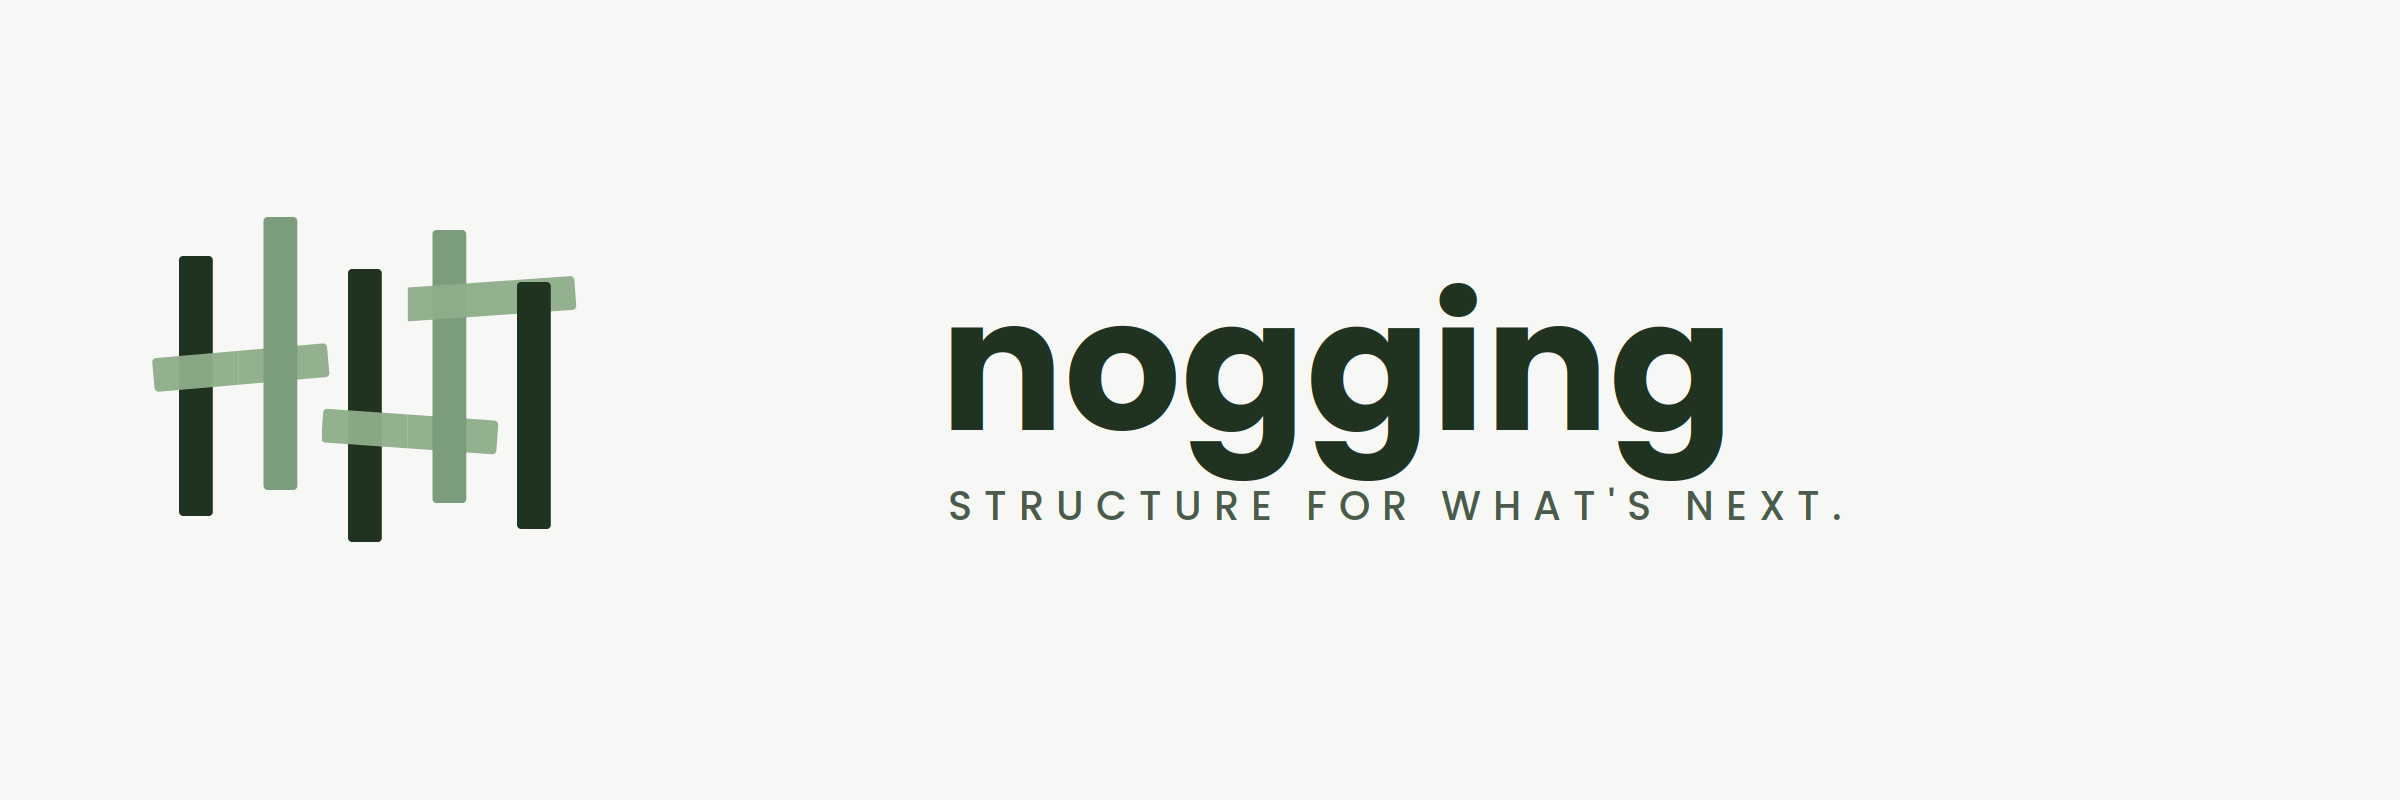
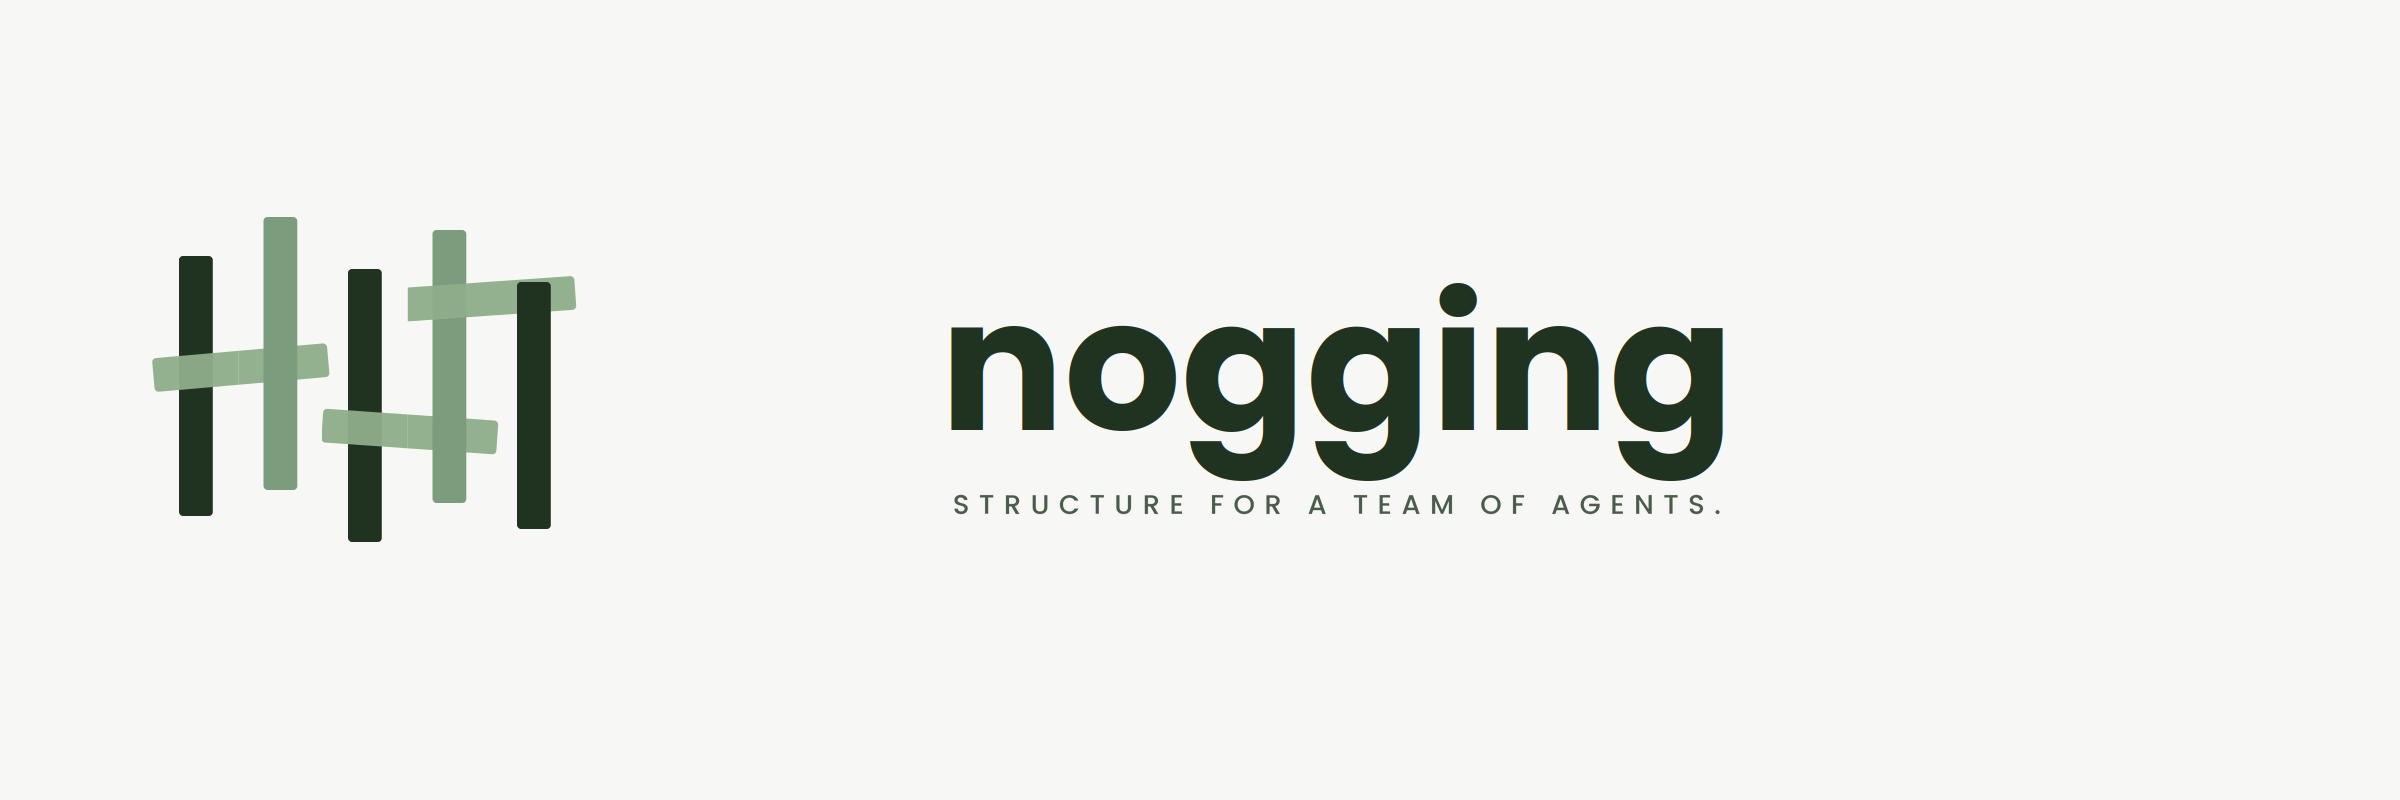
chore(brand): finish tagline rebrand in assets and wording [SPEC-ah2c]
Take the owner-made banner and social card from docs/brand-tagline (#270),
add the 1080x1080 square social card, and redraw the logo tagline as
"STRUCTURE FOR / A TEAM OF AGENTS." (Poppins Medium, #4A5B4C, wordmark and
mark pixel-unchanged).

Align package.json description and keywords with the GitHub description,
and drop stale pre-public statements from project-identity, installation and
compatibility docs (historical decisions stay marked historical).

Claude-Session: https://claude.ai/code/session_01VnwbXyWrScQbcWBm8gQrTF

Changed region(s): [[0.375, 0.5938, 0.75, 0.6562]]

diff --git a/docs/project-identity.md b/docs/project-identity.md
@@ -15,13 +15,22 @@ Nogging release.
 - Installer entry point: `npx github:JoMe92/nogging#<tag>`
 - Generated service prefix: `nogg-`
 
-### GitHub metadata for the owner
+### GitHub metadata
 
-- Description: `Nogging — the structural layer for agentic software development.`
-- Topics: `agentic-development`, `ai-agents`, `beads`, `developer-tools`,
-  `openspec`
-- Visibility: remain private until the separate release-readiness and human
-  acceptance process authorizes a change
+- Description: `Structure for a team of agents: role boundaries, planning and
+  Git-evidenced execution for Claude Code, Codex, Pi and Antigravity, built on
+  OpenSpec and Beads.`
+- Topics (20): `agentic-coding`, `agentic-development`, `ai-agents`,
+  `ai-coding`, `beads`, `claude-code`, `cli`, `codex`, `coding-agents`,
+  `developer-tools`, `devtools`, `git`, `llm`, `multi-agent`, `openai-codex`,
+  `openspec`, `orchestration`, `software-engineering`,
+  `spec-driven-development`, `workflow-automation`
+- Visibility: public since v3.0.0
+
+_Historical:_ before v3.0.0 the repository was private, carried an earlier
+one-line description, and had five topics
+(`agentic-development`, `ai-agents`, `beads`, `developer-tools`, `openspec`).
+That wording and the private-until-release-readiness decision are superseded.
 
 Nogging is **structure for a team of agents**: it turns autonomous coding
 agents into a disciplined team — a Planning Agent, a Lead Agent, and

diff --git a/docs/compatibility.md b/docs/compatibility.md
@@ -1,6 +1,6 @@
 # Compatibility policy and matrix
 
-This page defines the supported environment for Nogging 2.0.x. “Supported”
+This page defines the supported environment for Nogging 3.1.x. “Supported”
 means the project claims the combination and supplies CI or recorded manual
 evidence. “Optional” means the core local workflow works without the component.
 Versions newer than the validated baseline are expected to work within the same
@@ -34,7 +34,7 @@ a hard gate, because they are not stable APIs.
 | Ubuntu Linux, x86_64 | Supported | GitHub Actions runs functional, install, validation, and acceptance jobs |
 | Debian-family Linux, aarch64 | Supported | dated Raspberry Pi acceptance report and maintainer-host full suite |
 | Other Linux distributions / architectures | Experimental | run `doctor`, the full suite, and the acceptance runbook before relying on them |
-| macOS, Windows, WSL | Unsupported for 2.0.x | no release gate covers path, shell, service-manager, or sandbox behavior |
+| macOS, Windows, WSL | Unsupported for 3.1.x | no release gate covers path, shell, service-manager, or sandbox behavior |
 | systemd user services | Optional, supported on declared Linux hosts | install may use `--no-systemd`; generated units are tested |
 | Other service managers | Unsupported | use manual `./scripts/nogg sync --now`; no persistent-unit claim |
 

diff --git a/docs/installation.md b/docs/installation.md
@@ -10,9 +10,7 @@ npx github:JoMe92/nogging#v3.1.0 init --no-systemd
 
 `--no-systemd` skips the systemd units; leave it off only after reviewing the
 safety warning in the README. Always pin a released tag; do not install an
-unpinned default branch. Until the
-owner completes public-release acceptance, the repository remains private and
-the command requires GitHub access. Once public, the same pinned command needs
+unpinned default branch. The repository is public, so the pinned command needs
 no private-repository credential.
 
 ## Fresh machine: `scripts/bootstrap`
